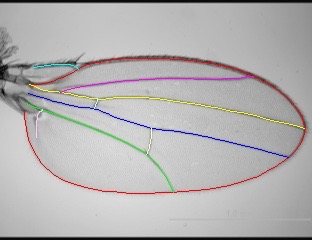
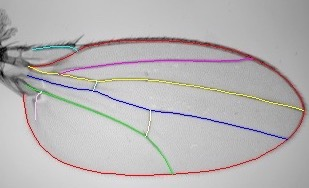
more images for front page

Changed region(s): [[0.0, 0.0532, 1.0, 0.9574], [0.0, 0.984, 1.0, 1.0], [0.0, 0.0, 1.0, 0.0266]]

diff --git a/index.html b/index.html
@@ -1,13 +1,14 @@
 ---
 layout: page
 title:  Genotype-Phenotype-Evolution
-subtitle: Please excuse the mess while we build this website
+subtitle: Excuse the mess while we build this website
 bigimg:
  - "/img/coverphotos/IMG_0051.JPG" : "Lab (circa 2014)"
  - "/img/coverphotos/MutantFlies.jpg" : "Lab door - Halloween 2018"
  - "/img/coverphotos/Lab2017.jpg" : "Lab (circa 2018)"
  - "/img/coverphotos/LabShot2019.jpg" : "Lab (circa 2019)"
-
+ - "/img/coverphotos/WingSpline.jpg" : "Lab (circa 2019)"
+ - "/img/coverphotos/scallopped.png" : "Lab (circa 2019)"
 ---
 
 <div class="posts-list">
